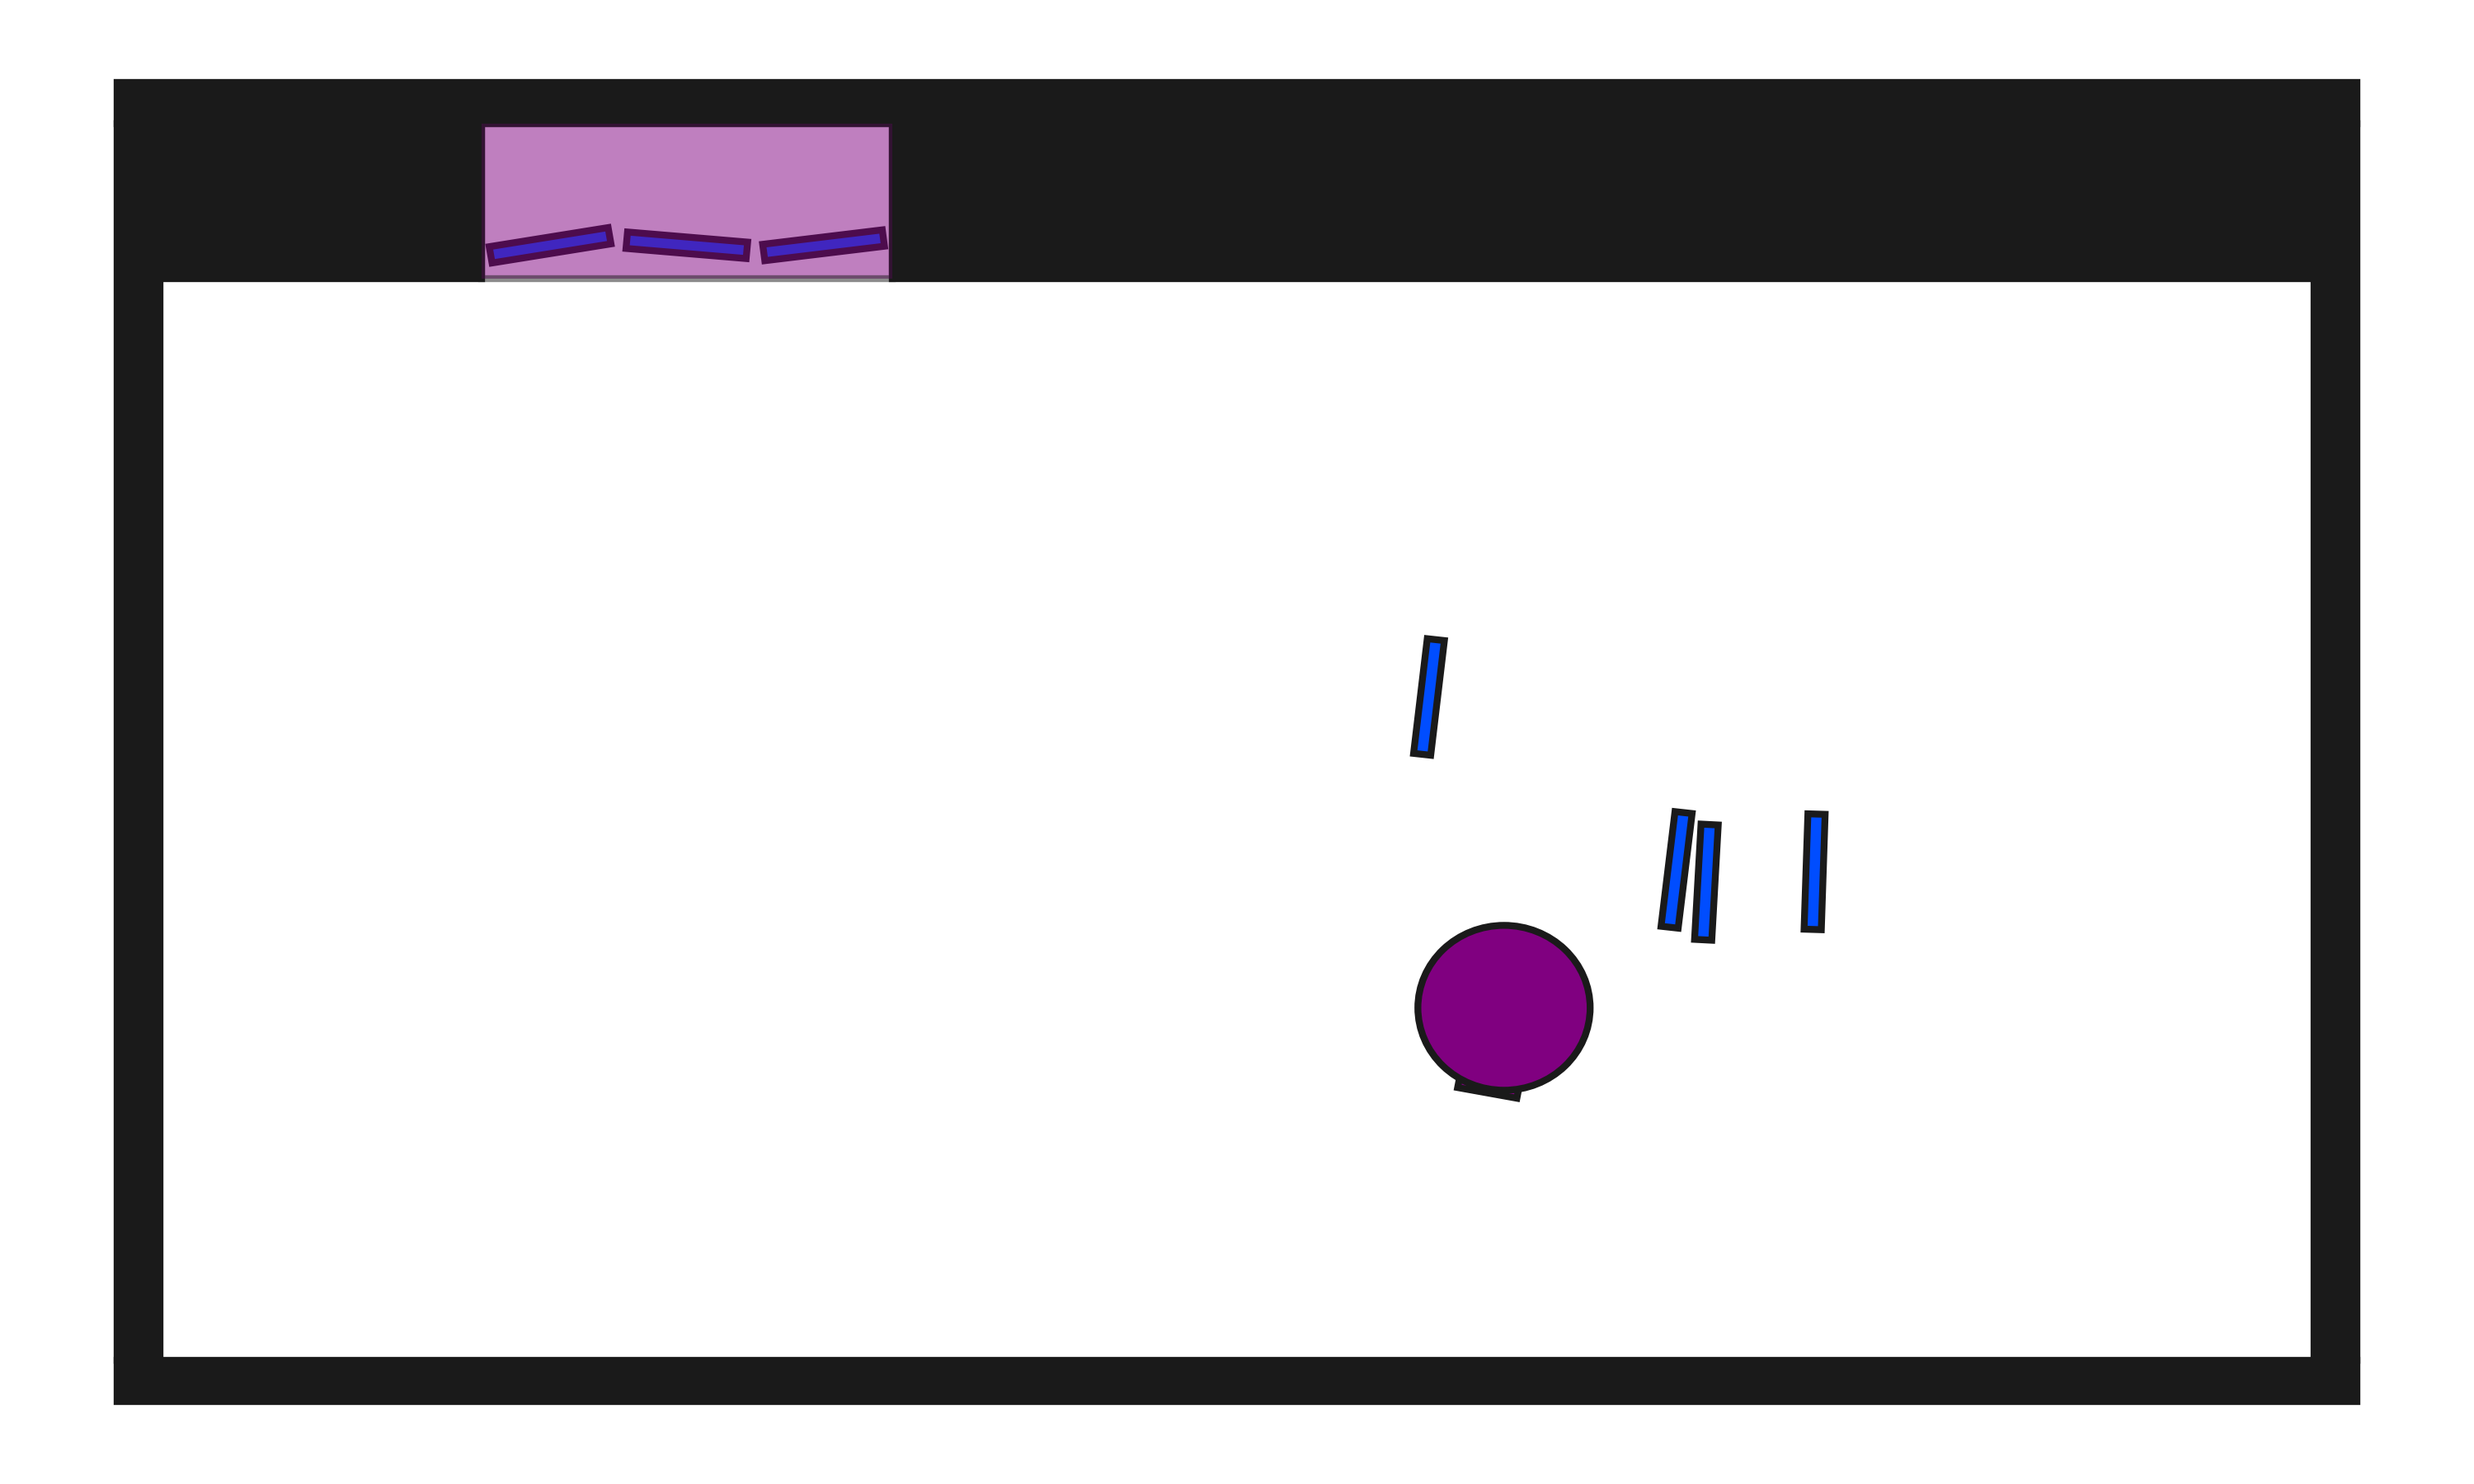
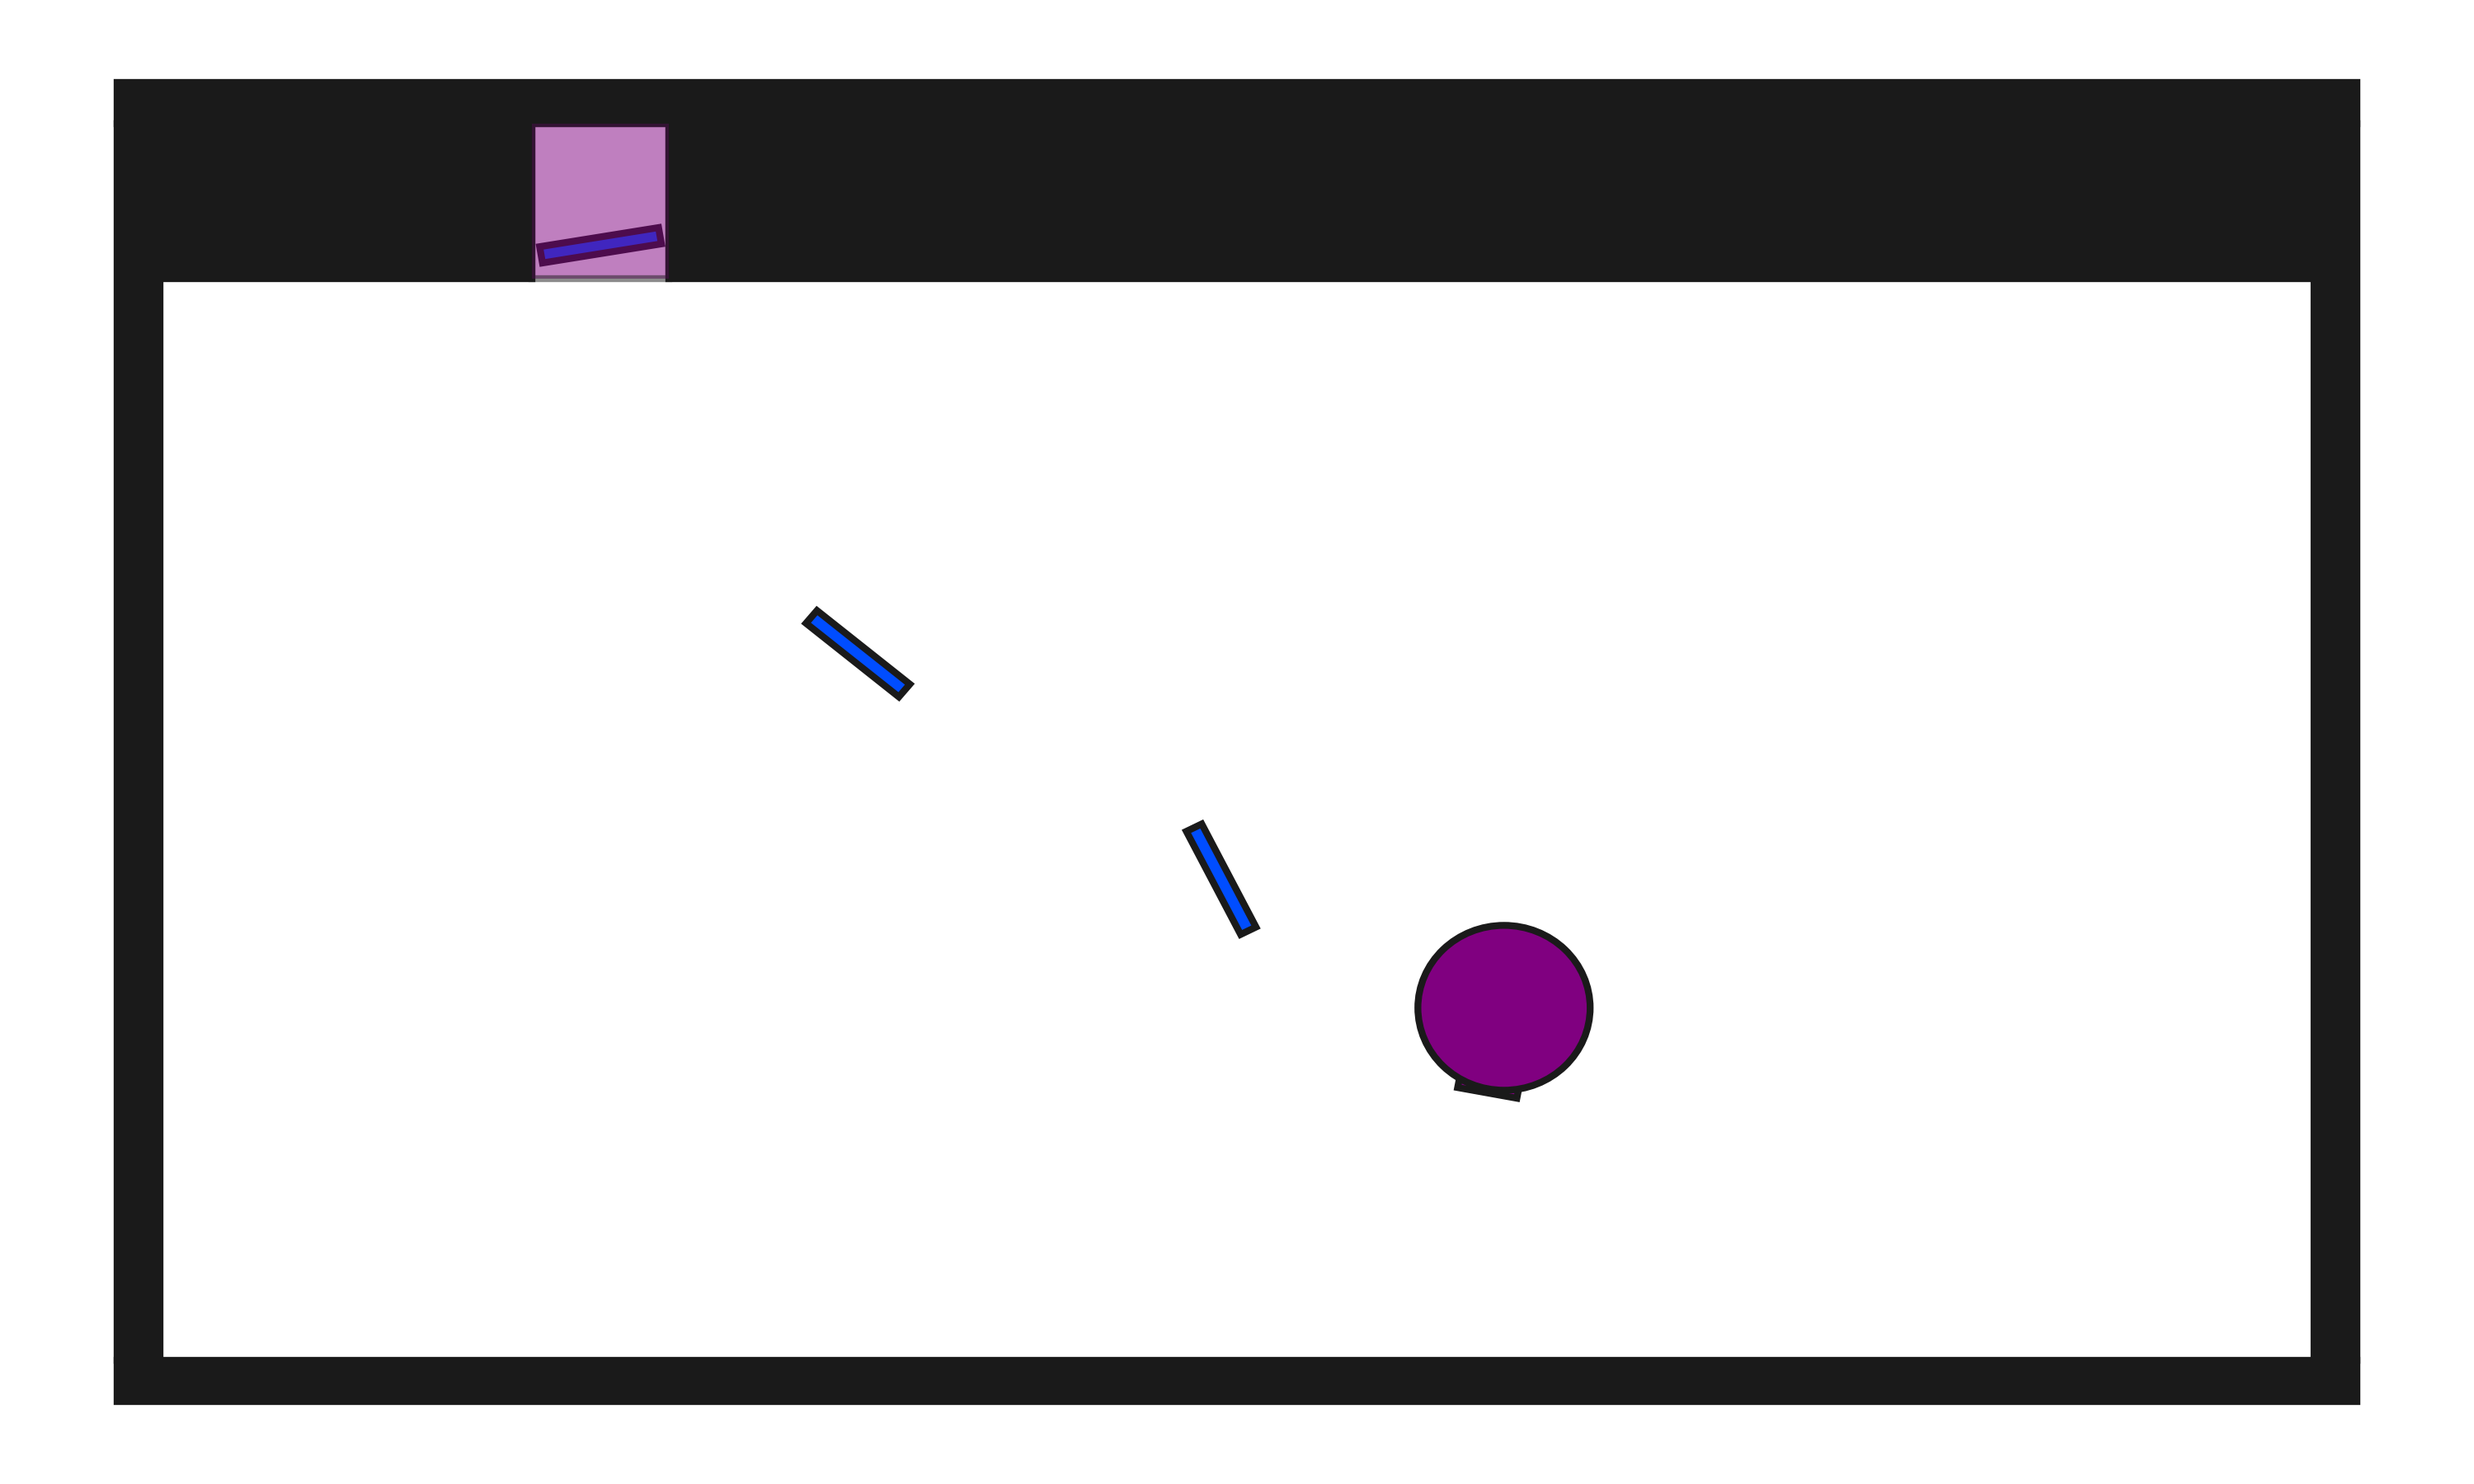
fixed ci/cd checks

diff --git a/src/alphatamp/approaches/cluttered_storage_b7_approach.py b/src/alphatamp/approaches/cluttered_storage_b7_approach.py
@@ -1,6 +1,6 @@
 """Oracle approach specifically for ClutteredStorage2D-b7-v0"""
 
-from typing import Iterator, TypeAlias, TypeVar
+from typing import Iterable, Iterator, Protocol, TypeAlias, TypeVar
 
 from bilevel_planning.abstract_plan_generators.abstract_plan_generator import (
     AbstractPlanGenerator,
@@ -25,18 +25,34 @@ from relational_structs import GroundOperator
 
 from alphatamp.approaches.base_approach import BaseApproach
 
+
+# Fixes type issues for ci/cd checks
+class _HasGetObjects(Protocol):
+    """Typing protocol: ensures classes provide get_objects(obj_type) -> list."""
+
+    def get_objects(self, obj_type) -> list:
+        """Return a list of objects of the given type (used for typing contracts)."""
+
+
 _O = TypeVar("_O")  # observation
-_X = TypeVar("_X")  # state
 _U = TypeVar("_U")  # action
-_S = TypeVar("_S")  # abstract state
-_A = TypeVar("_A")  # abstract action
+_X = TypeVar("_X", bound=_HasGetObjects)  # state
+_S = TypeVar("_S", bound=RelationalAbstractState)  # abstract state
+_A = TypeVar("_A", bound=GroundOperator)  # abstract action
 Skeleton: TypeAlias = tuple[list[RelationalAbstractState], list[GroundOperator]]
 FrozenSkeleton: TypeAlias = tuple[
     tuple[RelationalAbstractState, ...], tuple[GroundOperator, ...]
 ]
 
 
-class b7OracleAbstractPlanGenerator(AbstractPlanGenerator[_X, _S, _A]):
+def noop_successor_fn(_s: _S) -> Iterable[tuple[_A, _S]]:
+    """Return no successors; placeholder to satisfy AbstractPlanGenerator.__init__."""
+    return []
+
+
+class b7OracleAbstractPlanGenerator(
+    AbstractPlanGenerator[_X, RelationalAbstractState, GroundOperator]
+):
     """A generator that uses oracle knowledge to generate abstract plans."""
 
     def __init__(
@@ -44,17 +60,18 @@ class b7OracleAbstractPlanGenerator(AbstractPlanGenerator[_X, _S, _A]):
         env_models: SesameModels,
         seed: int,
     ) -> None:
-        # super().__init__(abstract_successor_function, seed)
+        """Initialize with env models and seed"""
+        super().__init__(noop_successor_fn, seed)
         self._env_models = env_models
 
     def __call__(
         self,
         x0: _X,
-        s0: _S,
+        s0: RelationalAbstractState,
         goal: Goal,
         timeout: float,
-        bpg: BilevelPlanningGraph[_X, _U, _S, _A],
-    ) -> Iterator[tuple[list[_S], list[_A]]]:
+        bpg: BilevelPlanningGraph[_X, _U, RelationalAbstractState, GroundOperator],
+    ) -> Iterator[tuple[list[RelationalAbstractState], list[GroundOperator]]]:
         """Generate abstract plans."""
 
         # Look at environment models to map operators to their names
@@ -85,7 +102,7 @@ class b7OracleAbstractPlanGenerator(AbstractPlanGenerator[_X, _S, _A]):
         (shelf,) = x0.get_objects(shelf_type)
 
         # Creates the abstract plan by grounding the lifeted operators
-        abstract_actions = [
+        abstract_actions: list[GroundOperator] = [
             PickBlockOnShelf.ground((robot, block0, shelf)),
             PlaceBlockNotOnShelf.ground((robot, block0, shelf)),
             PickBlockNotOnShelf.ground((robot, block0, shelf)),
@@ -113,7 +130,7 @@ class b7OracleAbstractPlanGenerator(AbstractPlanGenerator[_X, _S, _A]):
         # add effects of each action to the current set of atoms
         # to produce the next abstract state, and add them to abstract_states
 
-        abstract_states = [s0]
+        abstract_states: list[RelationalAbstractState] = [s0]
         for abstract_action in abstract_actions:
             next_atoms = (
                 abstract_states[-1].atoms - abstract_action.delete_effects

diff --git a/src/alphatamp/approaches/oracle_skeleton_generator_approach.py b/src/alphatamp/approaches/oracle_skeleton_generator_approach.py
@@ -1,6 +1,6 @@
 """Uses an oracle skeleton generator policy for abstract planning."""
 
-from typing import Iterator, TypeAlias, TypeVar
+from typing import Iterable, Iterator, Protocol, TypeAlias, TypeVar
 
 from bilevel_planning.abstract_plan_generators.abstract_plan_generator import (
     AbstractPlanGenerator,
@@ -25,18 +25,34 @@ from relational_structs import GroundOperator
 
 from alphatamp.approaches.base_approach import BaseApproach
 
+
+# Fixes type issues for ci/cd checks
+class _HasGetObjects(Protocol):
+    """Typing protocol: ensures classes provide get_objects(obj_type) -> list."""
+
+    def get_objects(self, obj_type) -> list:
+        """Return a list of objects of the given type (used for typing contracts)."""
+
+
 _O = TypeVar("_O")  # observation
-_X = TypeVar("_X")  # state
 _U = TypeVar("_U")  # action
-_S = TypeVar("_S")  # abstract state
-_A = TypeVar("_A")  # abstract action
+_X = TypeVar("_X", bound=_HasGetObjects)  # state
+_S = TypeVar("_S", bound=RelationalAbstractState)  # abstract state
+_A = TypeVar("_A", bound=GroundOperator)  # abstract action
 Skeleton: TypeAlias = tuple[list[RelationalAbstractState], list[GroundOperator]]
 FrozenSkeleton: TypeAlias = tuple[
     tuple[RelationalAbstractState, ...], tuple[GroundOperator, ...]
 ]
 
 
-class OracleAbstractPlanGenerator(AbstractPlanGenerator[_X, _S, _A]):
+def noop_successor_fn(_s: _S) -> Iterable[tuple[_A, _S]]:
+    """Return no successors; placeholder to satisfy AbstractPlanGenerator.__init__."""
+    return []
+
+
+class OracleAbstractPlanGenerator(
+    AbstractPlanGenerator[_X, RelationalAbstractState, GroundOperator]
+):
     """A generator that uses oracle knowledge to generate abstract plans."""
 
     def __init__(
@@ -44,17 +60,18 @@ class OracleAbstractPlanGenerator(AbstractPlanGenerator[_X, _S, _A]):
         env_models: SesameModels,
         seed: int,
     ) -> None:
-        # super().__init__(abstract_successor_function, seed)
+        """Initialize with env models and seed"""
+        super().__init__(noop_successor_fn, seed)
         self._env_models = env_models
 
     def __call__(
         self,
         x0: _X,
-        s0: _S,
+        s0: RelationalAbstractState,
         goal: Goal,
         timeout: float,
-        bpg: BilevelPlanningGraph[_X, _U, _S, _A],
-    ) -> Iterator[tuple[list[_S], list[_A]]]:
+        bpg: BilevelPlanningGraph[_X, _U, RelationalAbstractState, GroundOperator],
+    ) -> Iterator[tuple[list[RelationalAbstractState], list[GroundOperator]]]:
         """Generate abstract plans."""
 
         # For the prbench/ClutteredStorage2D-b3-v0, we want to return
@@ -87,7 +104,7 @@ class OracleAbstractPlanGenerator(AbstractPlanGenerator[_X, _S, _A]):
         (shelf,) = x0.get_objects(shelf_type)
 
         # Creates the abstract plan by grounding the lifeted operators
-        abstract_actions = [
+        abstract_actions: list[GroundOperator] = [
             PickBlockOnShelf.ground((robot, block0, shelf)),
             PlaceBlockNotOnShelf.ground((robot, block0, shelf)),
             PickBlockNotOnShelf.ground((robot, block0, shelf)),
@@ -103,7 +120,7 @@ class OracleAbstractPlanGenerator(AbstractPlanGenerator[_X, _S, _A]):
         # add effects of each action to the current set of atoms
         # to produce the next abstract state, and add them to abstract_states
 
-        abstract_states = [s0]
+        abstract_states: list[RelationalAbstractState] = [s0]
         for abstract_action in abstract_actions:
             next_atoms = (
                 abstract_states[-1].atoms - abstract_action.delete_effects
